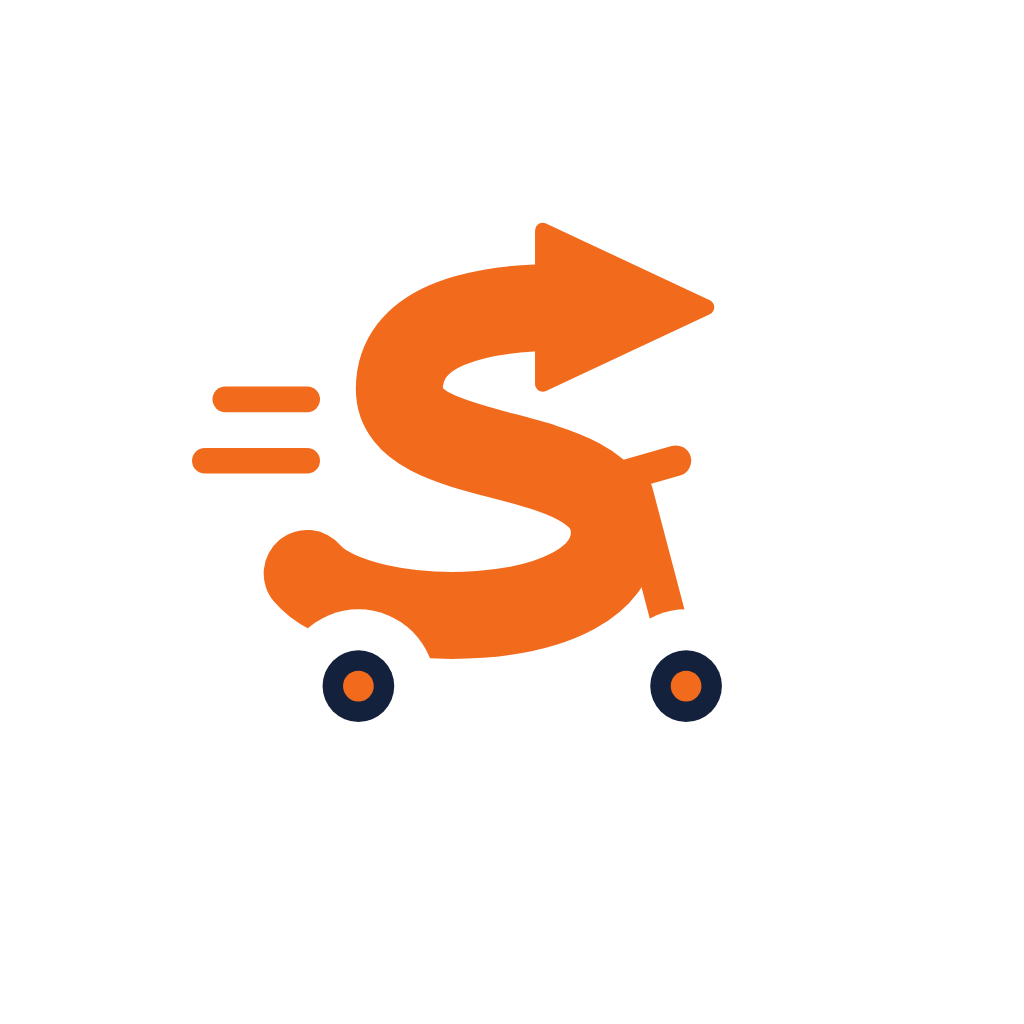
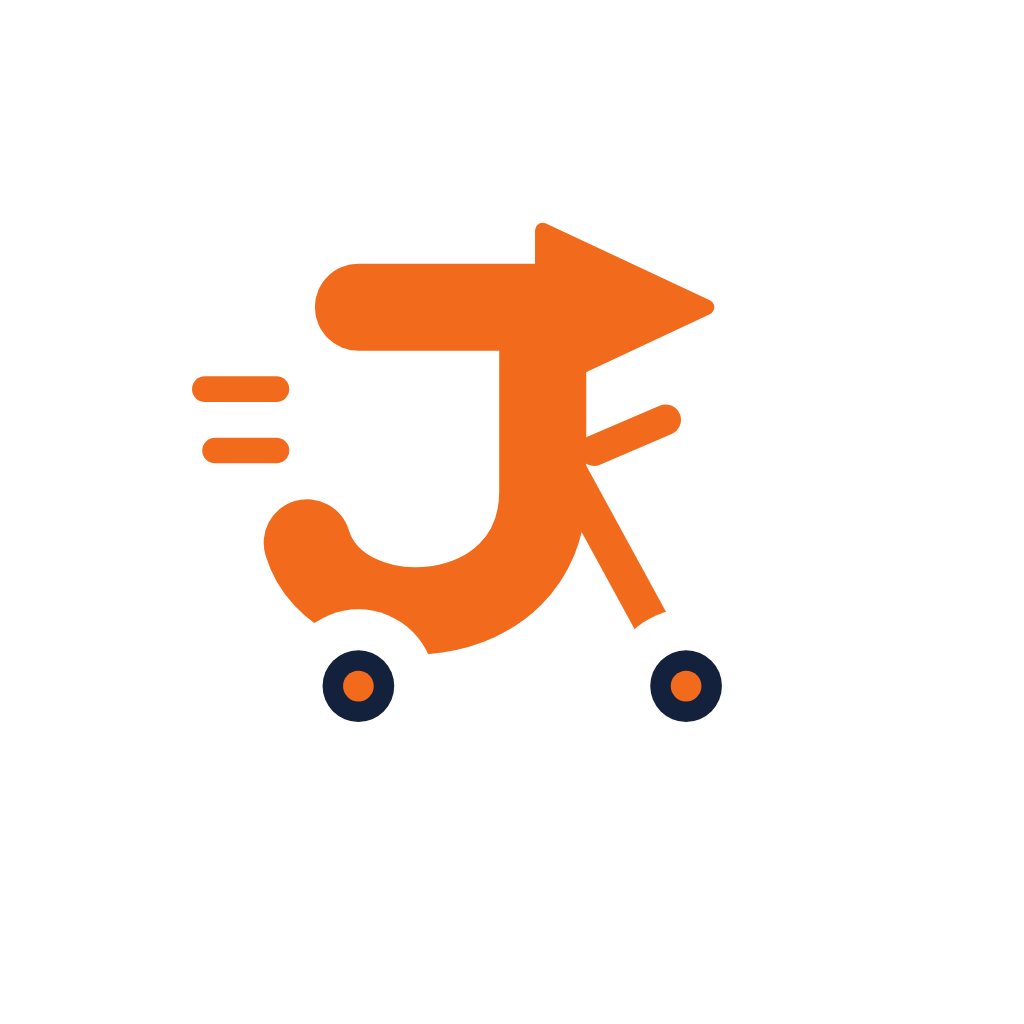
Rename the app from SABIQ to Jareeye
Jareeye is Somali for a fast horse. Updates the app name, slug, scheme and
Android/iOS package id (so.jareeye.app), all translations, the wordmark, and
redraws the brand mark as a J on wheels (app icon, splash, map pin, logo).

Claude-Session: https://claude.ai/code/session_01R5Di8qv5zEmFLFiioJm3VW

diff --git a/src/lib/i18n.tsx b/src/lib/i18n.tsx
@@ -56,7 +56,7 @@ const so = {
   'verify.changeNumber': 'Beddel lambarka',
 
   // Onboarding
-  'onb.welcome': 'Ku soo dhawoow SABIQ',
+  'onb.welcome': 'Ku soo dhawoow Jareeye',
   'onb.how': 'Sidee u isticmaalaysaa app-ka?',
   'onb.customerTitle': 'Waxaan ahay macmiil',
   'onb.customerBody': 'Hel darawal kuu dhow, una dir xirmo meel kasta oo magaalada ah.',
@@ -88,7 +88,7 @@ const so = {
   'rf.photoAdd': 'Sawir ku soo geli',
   'rf.photoChange': 'Riix si aad u beddesho',
   'rf.photoHint': 'Kaarka aqoonsiga ama baasaboorka',
-  'rf.agree': 'Waxaan oggolahay shuruudaha SABIQ, waxaanan leeyahay mooto iyo liisan wadis.',
+  'rf.agree': 'Waxaan oggolahay shuruudaha Jareeye, waxaanan leeyahay mooto iyo liisan wadis.',
   'rf.missingFields': 'Fadlan buuxi magaca, lambarka aqoonsiga iyo taarikada',
   'rf.missingPhoto': 'Fadlan soo geli sawirka kaarka aqoonsiga',
   'rf.mustAgree': 'Fadlan oggolow shuruudaha',
@@ -107,7 +107,7 @@ const so = {
   'rider.completeTitle': 'Dhammaystir codsigaaga',
   'rider.completeSub': 'Waxaan u baahanahay macluumaadka mootadaada ka hor intaadan bilaabin.',
   'rider.rejectedTitle': 'Codsigaaga lama aqbalin',
-  'rider.rejectedSub': 'Hubi macluumaadka oo mar kale soo gudbi, ama la xiriir xafiiska SABIQ.',
+  'rider.rejectedSub': 'Hubi macluumaadka oo mar kale soo gudbi, ama la xiriir xafiiska Jareeye.',
   'rider.pendingTitle': 'Codsigaaga waa la helay',
   'rider.pendingBody': 'Kooxdayadu waxay hubin doontaa aqoonsigaaga iyo mootadaada. Boggan wuu is beddeli doonaa marka lagu ansixiyo.',
   'rider.online': 'Online',
@@ -115,7 +115,7 @@ const so = {
   'rider.offlineTitle': 'Waxaad tahay offline',
 
   // Admin
-  'admin.title': 'Maamulka SABIQ',
+  'admin.title': 'Maamulka Jareeye',
   'admin.sub': 'Ansixi darawallada, la soco dalabyada.',
   'admin.pending': 'Sugaya',
   'admin.approved': 'La ansixiyay',
@@ -156,7 +156,7 @@ const so = {
   'map.showAll': 'Muuji dhammaan',
   'map.live': 'Toos · wuxuu cusboonaanayaa 15 ilbiriqsi kasta',
   'city.hargeisa': 'Hargeysa',
-  'area.outside': 'SABIQ wuxuu hadda ka shaqeeyaa {city} oo keliya. Waxaad joogtaa meel ka baxsan magaalada.',
+  'area.outside': 'Jareeye wuxuu hadda ka shaqeeyaa {city} oo keliya. Waxaad joogtaa meel ka baxsan magaalada.',
   'area.outsideRider': 'Waxaad joogtaa meel ka baxsan {city}. Macaamiishu kuma arki doonaan ilaa aad magaalada ku soo laabato.',
 };
 
@@ -199,7 +199,7 @@ const en: Dictionary = {
   'verify.resend': 'Send me a new code',
   'verify.changeNumber': 'Change number',
 
-  'onb.welcome': 'Welcome to SABIQ',
+  'onb.welcome': 'Welcome to Jareeye',
   'onb.how': 'How will you use the app?',
   'onb.customerTitle': "I'm a customer",
   'onb.customerBody': 'Find a rider near you and send a package anywhere in the city.',
@@ -230,7 +230,7 @@ const en: Dictionary = {
   'rf.photoAdd': 'Add a photo',
   'rf.photoChange': 'Tap to change',
   'rf.photoHint': 'ID card or passport',
-  'rf.agree': 'I agree to the SABIQ terms, and I have a motorbike and a driving licence.',
+  'rf.agree': 'I agree to the Jareeye terms, and I have a motorbike and a driving licence.',
   'rf.missingFields': 'Please fill in your name, ID number and plate',
   'rf.missingPhoto': 'Please add a photo of your ID card',
   'rf.mustAgree': 'Please accept the terms',
@@ -246,14 +246,14 @@ const en: Dictionary = {
   'rider.completeTitle': 'Complete your application',
   'rider.completeSub': 'We need your bike details before you start.',
   'rider.rejectedTitle': 'Your application was not approved',
-  'rider.rejectedSub': 'Check your details and submit again, or contact the SABIQ office.',
+  'rider.rejectedSub': 'Check your details and submit again, or contact the Jareeye office.',
   'rider.pendingTitle': "We've received your application",
   'rider.pendingBody': "Our team will check your ID and bike. This page updates as soon as you're approved.",
   'rider.online': 'Online',
   'rider.offline': 'Offline',
   'rider.offlineTitle': "You're offline",
 
-  'admin.title': 'SABIQ admin',
+  'admin.title': 'Jareeye admin',
   'admin.sub': 'Approve riders and follow orders.',
   'admin.pending': 'Pending',
   'admin.approved': 'Approved',
@@ -293,7 +293,7 @@ const en: Dictionary = {
   'map.showAll': 'Show everyone',
   'map.live': 'Live · updates every 15 seconds',
   'city.hargeisa': 'Hargeisa',
-  'area.outside': "SABIQ works in {city} only for now. You're outside the city.",
+  'area.outside': "Jareeye works in {city} only for now. You're outside the city.",
   'area.outsideRider': "You're outside {city}. Customers won't see you until you're back in the city.",
 };
 
@@ -333,7 +333,7 @@ const ar: Dictionary = {
   'verify.resend': 'أرسل لي رمزاً جديداً',
   'verify.changeNumber': 'تغيير الرقم',
 
-  'onb.welcome': 'مرحباً بك في SABIQ',
+  'onb.welcome': 'مرحباً بك في Jareeye',
   'onb.how': 'كيف ستستخدم التطبيق؟',
   'onb.customerTitle': 'أنا عميل',
   'onb.customerBody': 'اعثر على سائق قريب منك وأرسل طرداً إلى أي مكان في المدينة.',
@@ -364,7 +364,7 @@ const ar: Dictionary = {
   'rf.photoAdd': 'أضف صورة',
   'rf.photoChange': 'اضغط للتغيير',
   'rf.photoHint': 'بطاقة الهوية أو جواز السفر',
-  'rf.agree': 'أوافق على شروط SABIQ، ولدي دراجة نارية ورخصة قيادة.',
+  'rf.agree': 'أوافق على شروط Jareeye، ولدي دراجة نارية ورخصة قيادة.',
   'rf.missingFields': 'يرجى إدخال الاسم ورقم الهوية ولوحة الدراجة',
   'rf.missingPhoto': 'يرجى إضافة صورة بطاقة الهوية',
   'rf.mustAgree': 'يرجى الموافقة على الشروط',
@@ -380,14 +380,14 @@ const ar: Dictionary = {
   'rider.completeTitle': 'أكمل طلب الانضمام',
   'rider.completeSub': 'نحتاج بيانات دراجتك قبل أن تبدأ.',
   'rider.rejectedTitle': 'لم تتم الموافقة على طلبك',
-  'rider.rejectedSub': 'راجع بياناتك وأعد الإرسال، أو تواصل مع مكتب SABIQ.',
+  'rider.rejectedSub': 'راجع بياناتك وأعد الإرسال، أو تواصل مع مكتب Jareeye.',
   'rider.pendingTitle': 'استلمنا طلبك',
   'rider.pendingBody': 'سيتحقق فريقنا من هويتك ودراجتك. ستتحدث هذه الصفحة فور الموافقة عليك.',
   'rider.online': 'متصل',
   'rider.offline': 'غير متصل',
   'rider.offlineTitle': 'أنت غير متصل',
 
-  'admin.title': 'إدارة SABIQ',
+  'admin.title': 'إدارة Jareeye',
   'admin.sub': 'وافق على السائقين وتابع الطلبات.',
   'admin.pending': 'قيد المراجعة',
   'admin.approved': 'مقبول',
@@ -427,12 +427,12 @@ const ar: Dictionary = {
   'map.showAll': 'عرض الجميع',
   'map.live': 'مباشر · يتحدث كل 15 ثانية',
   'city.hargeisa': 'هرجيسا',
-  'area.outside': 'يعمل SABIQ في {city} فقط حالياً. أنت خارج المدينة.',
+  'area.outside': 'يعمل Jareeye في {city} فقط حالياً. أنت خارج المدينة.',
   'area.outsideRider': 'أنت خارج {city}. لن يراك العملاء حتى تعود إلى المدينة.',
 };
 
 const DICTIONARIES: Record<Language, Dictionary> = { so, en, ar };
-const STORAGE_KEY = 'sabiq.language';
+const STORAGE_KEY = 'jareeye.language';
 
 export type Translate = (key: TKey, vars?: Record<string, string | number>) => string;
 

diff --git a/src/components/live-map/map-html.ts b/src/components/live-map/map-html.ts
@@ -14,7 +14,7 @@ import { ACTIVE_CITY } from '@/lib/service-area';
 
 const B = ACTIVE_CITY.bounds;
 
-const SCOOTER = `<svg viewBox="0 0 120 120" width="22" height="22"><path d="M20 72 C30 84 80 84 80 64 C80 46 38 52 38 36 C38 24 52 20 70 20" fill="none" stroke="#fff" stroke-width="17" stroke-linecap="round"/><polygon points="66,5 98,20 66,35" fill="#fff"/><circle cx="30" cy="94" r="15" fill="#fff"/><circle cx="94" cy="94" r="15" fill="#fff"/></svg>`;
+const SCOOTER = `<svg viewBox="0 0 120 120" width="22" height="22"><path d="M30 20 H66 V56 C66 84 26 86 20 66" fill="none" stroke="#fff" stroke-width="17" stroke-linecap="round" stroke-linejoin="round"/><polygon points="66,5 98,20 66,35" fill="#fff"/><circle cx="30" cy="94" r="15" fill="#fff"/><circle cx="94" cy="94" r="15" fill="#fff"/></svg>`;
 
 export const MAP_HTML = `<!doctype html>
 <html><head>
@@ -32,7 +32,7 @@ export const MAP_HTML = `<!doctype html>
 <div id="map"></div>
 <script src="https://unpkg.com/leaflet@1.9.4/dist/leaflet.js"></script>
 <script>
-  // The map is locked to the city SABIQ serves: it can't be panned or zoomed out beyond it.
+  // The map is locked to the city Jareeye serves: it can't be panned or zoomed out beyond it.
   var city = L.latLngBounds([[${B.south}, ${B.west}], [${B.north}, ${B.east}]]);
   var map = L.map('map', { zoomControl: false, maxBounds: city.pad(0.02), maxBoundsViscosity: 1.0 });
   map.fitBounds(city);
@@ -69,6 +69,6 @@ export const MAP_HTML = `<!doctype html>
   window.update = update;
   // Tell the app the map is ready for data.
   if (window.ReactNativeWebView) window.ReactNativeWebView.postMessage('ready');
-  else if (window.parent) window.parent.postMessage('sabiq-map-ready', '*');
+  else if (window.parent) window.parent.postMessage('jareeye-map-ready', '*');
 </script>
 </body></html>`;

diff --git a/src/app/sign-in.tsx b/src/app/sign-in.tsx
@@ -40,7 +40,7 @@ export default function SignIn() {
       <View style={[styles.hero, { backgroundColor: '#14213D' }]}>
         <View style={styles.brandRow}>
           <Image source={require('@/assets/images/logo-mark.png')} style={styles.logo} contentFit="contain" accessibilityIgnoresInvertColors />
-          <Txt style={[styles.wordmark, { color: '#FFFFFF' }]}>SABIQ</Txt>
+          <Txt style={[styles.wordmark, { color: '#FFFFFF' }]}>JAREEYE</Txt>
         </View>
         <Txt variant="title" style={{ color: '#FFFFFF' }}>{t('signin.headline')}</Txt>
         <Txt style={{ color: '#FFFFFF', opacity: 0.85 }}>{t('signin.sub')}</Txt>

diff --git a/src/app/(customer)/(tabs)/index.tsx b/src/app/(customer)/(tabs)/index.tsx
@@ -71,7 +71,7 @@ export default function FindRider() {
       <View style={[styles.hero, { backgroundColor: '#14213D' }]}>
         <Row gap={Spacing.two}>
           <Image source={require('@/assets/images/logo-mark.png')} style={styles.logo} contentFit="contain" />
-          <Txt style={styles.wordmark}>SABIQ</Txt>
+          <Txt style={styles.wordmark}>JAREEYE</Txt>
         </Row>
         <Txt variant="title" style={{ color: '#FFFFFF' }}>{t('home.title')}</Txt>
         <Txt style={{ color: '#FFFFFF', opacity: 0.85 }}>{t('home.sub')}</Txt>

diff --git a/src/components/live-map/index.web.tsx b/src/components/live-map/index.web.tsx
@@ -13,7 +13,7 @@ export function LiveMap({ data, height = 300 }: { data: LiveMapData; height?: nu
 
   useEffect(() => {
     const onMessage = (e: MessageEvent) => {
-      if (e.source === ref.current?.contentWindow && e.data === 'sabiq-map-ready') setReady(true);
+      if (e.source === ref.current?.contentWindow && e.data === 'jareeye-map-ready') setReady(true);
     };
     window.addEventListener('message', onMessage);
     return () => window.removeEventListener('message', onMessage);

diff --git a/src/lib/service-area.ts b/src/lib/service-area.ts
@@ -1,4 +1,4 @@
-// Cities SABIQ operates in. The map is locked to the active city and riders outside it are hidden.
+// Cities Jareeye operates in. The map is locked to the active city and riders outside it are hidden.
 // To add a city (for example Mogadishu), add an entry here and the same box to
 // in_service_area() in the database, then set ACTIVE_CITY or let people choose.
 

diff --git a/src/constants/theme.ts b/src/constants/theme.ts
@@ -1,4 +1,4 @@
-// SABIQ brand: navy for structure and primary buttons, orange for the $1 promise and main actions.
+// Jareeye brand: navy for structure and primary buttons, orange for the $1 promise and main actions.
 // The `gold` / `onGold` slots hold the orange accent.
 export const Colors = {
   light: {

diff --git a/README.md b/README.md
@@ -1,6 +1,6 @@
-# SABIQ
+# Jareeye
 
-Quick moto delivery for Hargeisa. Anyone who needs something delivered (a shop owner, a family, a business) opens the app, sees the motorbike riders online nearest to them, and calls one. They meet, hand over the package and the receiver's phone number, and the rider delivers it. Payment goes to the rider directly.
+Quick moto delivery for Hargeisa. *Jareeye* is Somali for a fast horse. Anyone who needs something delivered (a shop owner, a family, a business) opens the app, sees the motorbike riders online nearest to them, and calls one. They meet, hand over the package and the receiver's phone number, and the rider delivers it. Payment goes to the rider directly.
 
 The app speaks English (default), Somali and Arabic (right to left), and is built with Expo (React Native) on top of Supabase. Headquarters and launch city: Hargeisa, Somaliland. Phone numbers use +252; Hargeisa numbers usually start with 3, 4, 6 or 9, but any number that receives the SMS code works. A bare 7-digit number gets Telesom's 63 added (474 0002 becomes +252 63 474 0002); delivery areas (xaafad and their degmo) are listed in `src/lib/format.ts`.
 
@@ -30,12 +30,12 @@ The live map uses Leaflet with OpenStreetMap tiles (free, no API key). It runs i
 
 ## Service area
 
-SABIQ runs in Hargeisa only for now. The map is locked to the city, and riders whose position is outside it are not shown to customers. Cities are listed in `src/lib/service-area.ts` and in `in_service_area()` in the database; add Mogadishu to both when it's time to expand.
+Jareeye runs in Hargeisa only for now. The map is locked to the city, and riders whose position is outside it are not shown to customers. Cities are listed in `src/lib/service-area.ts` and in `in_service_area()` in the database; add Mogadishu to both when it's time to expand.
 
 ## Brand
 
 - Colors: navy `#14213D` and orange `#F26B1D`.
-- `assets/brand/` holds the vector files: `sabiq-logo.svg` (full logo), `sabiq-logo-on-dark.svg`, `sabiq-icon.svg` (app icon) and `sabiq-mark.svg` (the S on wheels).
+- `assets/brand/` holds the vector files: `jareeye-logo.svg` (full logo), `jareeye-logo-on-dark.svg`, `jareeye-icon.svg` (app icon) and `jareeye-mark.svg` (the J on wheels).
 - The logo text uses the Montserrat font; convert the text to outlines before sending files to a printer.
 - `assets/images/` holds the PNGs the app uses (icon, Android adaptive icon, splash, favicon), generated from those SVGs.
 
